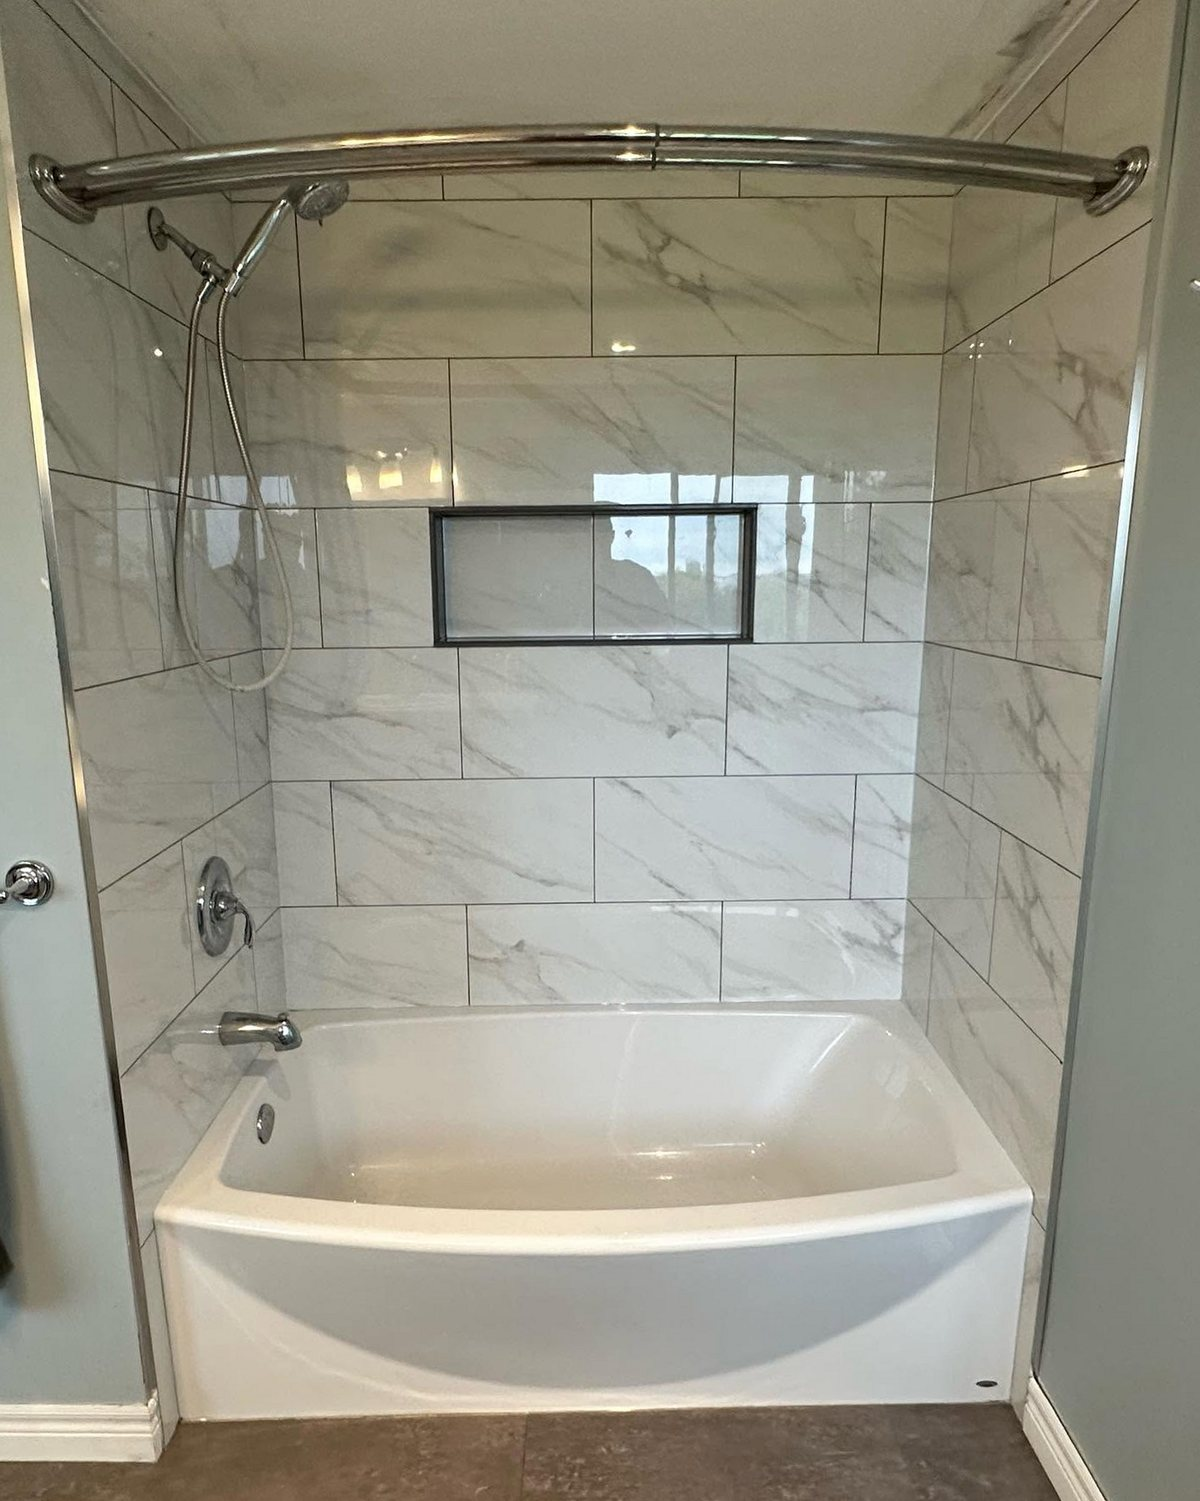
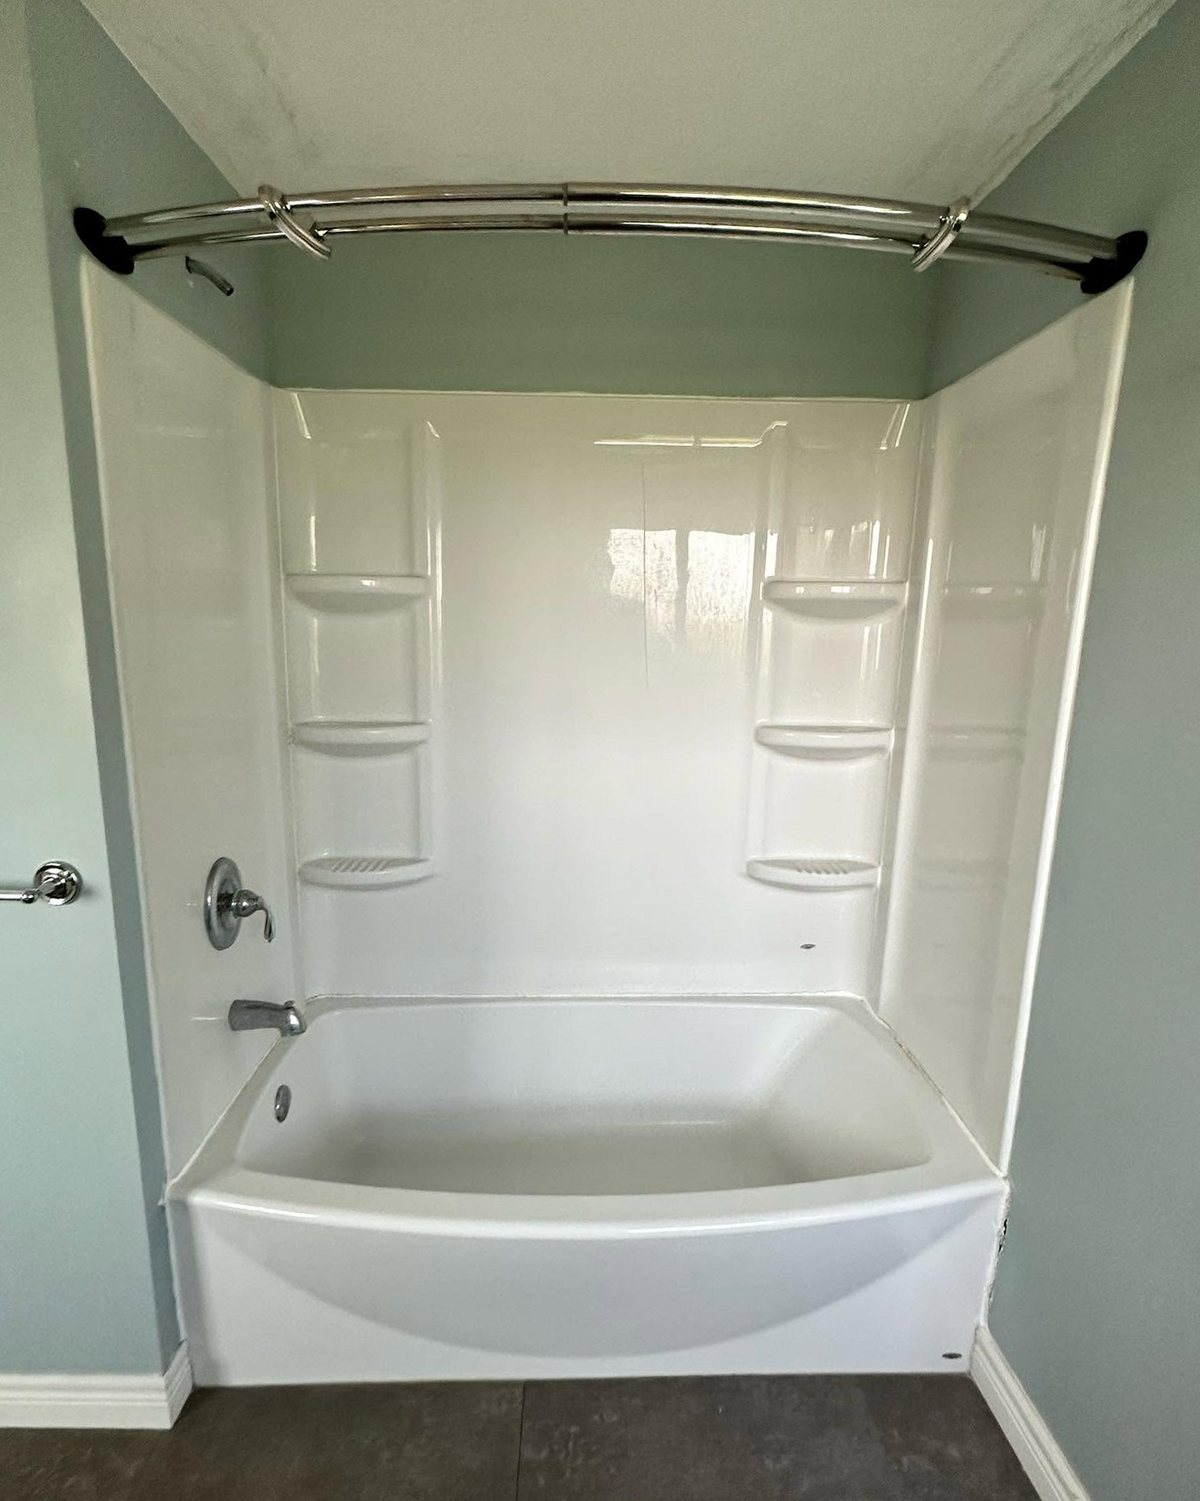
Fix mislabelled before/after photos, and make stages explicit
The tub project had its two photos the wrong way round. The grid tile was
showing the old plastic surround as Joel's finished work, which is
exactly the wrong impression to give. Verified visually and swapped.

Auditing that turned up two more from the same cause: the laundry batch
was scrambled, so the photo captioned as Joel tiling was actually the
finished room, and the patterned-bathroom set had picked up the two tub
photos instead of its own. All corrected against the actual images
rather than filenames.

Root cause was assigning names by file modification time, which does not
match the order photos arrive in. Every project photo has now been
checked by eye against its label.

Each photo can now carry its own stage badge, shown over the image:
"Before", "During - framing", "After - tiled". Without it a before shot
sitting in a project reads as finished work, since the shadowbox
otherwise only shows the project title.

Also: clicking the left half of a photo goes back and the right half
forward, arrows are larger and solid with the hovered half highlighting
its arrow, and dots show position in the set.

diff --git a/gallery.html b/gallery.html
@@ -127,7 +127,7 @@
         </li>
       </ul>
 
-      <script type="application/json" id="project-data">{"p0": {"title": "Fireplace surround", "note": "Full-height porcelain in a marble look, run floor to ceiling and returned around the corner so no cut edge is ever on show. The mantel is solid timber on concealed blocks, set above a see-through firebox.", "photos": [{"src": "images/g-fire-room.jpg", "alt": "Black marble-look fireplace surround running full height"}, {"src": "images/g-fire-wide.jpg", "alt": "The surround straight on with television above the mantel"}, {"src": "images/g-fire-mantel.jpg", "alt": "Timber mantel on cantilevered blocks above the firebox"}]}, "p1": {"title": "Charcoal shower", "note": "Large-format walls with a hexagon feature and a quartz bench. Behind all of it is a bonded waterproofing membrane taken up the walls and over the bench before a single tile went on. Levelling clips hold every tile flush while the mortar cures.", "photos": [{"src": "images/g-shower-done.jpg", "alt": "Charcoal shower with hexagon feature wall and quartz bench"}, {"src": "images/g-shower-progress.jpg", "alt": "The same shower mid-build, waterproofing membrane and levelling clips visible"}]}, "p2": {"title": "Fireplace and floating shelves", "note": "Concrete-look porcelain laid in herringbone, which means every tile is a cut and the pattern has to stay true right across the wall. Solid oak mantel and floating shelves, mitred where they return into the corner.", "photos": [{"src": "images/g-fire2-room.jpg", "alt": "Living room with herringbone tiled fireplace wall and oak shelves"}, {"src": "images/g-fire2-wall.jpg", "alt": "The fireplace wall straight on showing the herringbone pattern"}, {"src": "images/g-fire2-shelves.jpg", "alt": "Solid oak floating shelves mitred into the corner"}]}, "p3": {"title": "Marble-look bathroom", "note": "Large-format porcelain with a pebble mosaic strip run floor to ceiling as a feature. The niche is framed in quartz so there is no exposed tile edge anywhere you would put your hand.", "photos": [{"src": "images/g-mbath-shower.jpg", "alt": "Shower in marble-look large-format tile"}, {"src": "images/g-mbath-niche.jpg", "alt": "Pebble mosaic feature strip beside a quartz-framed niche"}, {"src": "images/g-mbath-vanity.jpg", "alt": "Vessel sink on a shaped quartz counter"}, {"src": "images/g-mbath-wide.jpg", "alt": "The finished room with round mirror and sconces"}]}, "p4": {"title": "Navy kitchen", "note": "Shaker cabinetry with a quartz island, glazed subway backsplash and brass pendants. The island end is panelled with a cross detail rather than left flat.", "photos": [{"src": "images/g-kitchen-wide.jpg", "alt": "Finished navy kitchen seen from the dining area"}, {"src": "images/g-kitchen-island.jpg", "alt": "The island from the side showing the cross-panel end"}, {"src": "images/g-kitchen-range.jpg", "alt": "Range wall with stainless hood and tiled backsplash"}, {"src": "images/g-kitchen-galley.jpg", "alt": "View along the cabinetry to the farmhouse sink"}]}, "p5": {"title": "Basement, start to finish", "note": "Exposed joists and a concrete floor turned into a laundry and hallway. Framing, insulation and drywall through to herringbone tile, oak cabinetry and a quartz top.", "photos": [{"src": "images/g-base-laundry.jpg", "alt": "Finished basement laundry with oak cabinetry and herringbone tile"}, {"src": "images/g-floor-hall.jpg", "alt": "Finished hallway with herringbone tile running through"}, {"src": "images/g-base-before.jpg", "alt": "The same basement before, exposed joists and concrete floor"}, {"src": "images/g-base-during.jpg", "alt": "Framed up mid-build"}]}, "p6": {"title": "White shaker kitchen", "note": "Quartz peninsula, picket tile backsplash and a full run of shaker cabinetry opened to the living room. The floor was out of level, so the boxes were cut and scribed to sit true rather than shimmed.", "photos": [{"src": "images/g-wkit-open.jpg", "alt": "White shaker kitchen open to the living room"}, {"src": "images/g-wkit-peninsula.jpg", "alt": "Quartz peninsula with undermount sink and pendants"}, {"src": "images/g-wkit-range.jpg", "alt": "Range wall with picket tile backsplash"}, {"src": "images/g-wkit-run.jpg", "alt": "Full cabinetry run with tall pantry"}]}, "p7": {"title": "Tub surround", "note": "A moulded plastic surround taken out and replaced with large-format porcelain, including a recessed niche trimmed in the same tile so the edges are mitred rather than capped.", "photos": [{"src": "images/g-tub-after.jpg", "alt": "Tiled tub surround in marble-look large format with a recessed niche"}, {"src": "images/g-tub-before.jpg", "alt": "The same tub before, with a moulded plastic surround"}]}, "p8": {"title": "Built-ins", "note": "Cabinetry built for the room it sits in rather than bought to fit it. Media wall with drawer banks and upper cabinets, and a fitted closet with shelving and rails set out to the owner's things.", "photos": [{"src": "images/g-builtin-media.jpg", "alt": "Built-in media wall in sage green"}, {"src": "images/g-closet.jpg", "alt": "Fitted closet with built-in shelving and rails"}]}, "p9": {"title": "Bathroom with patterned floor", "note": "Patterned floor tile laid so the repeat stays centred in the room, with a marble-look shower and a double vanity in quartz.", "photos": [{"src": "images/g-pbath-room.jpg", "alt": "The finished bathroom looking through to the shower"}, {"src": "images/g-pbath-shower.jpg", "alt": "Marble-look shower with glass surround"}, {"src": "images/g-pbath-vanity.jpg", "alt": "Double vanity with twin oval mirrors and quartz top"}]}, "p10": {"title": "White and black bathroom", "note": "Handmade-look subway run as a wainscot with a capped edge, black fittings throughout, and slate-look floor tile.", "photos": [{"src": "images/g-bath2-shower.jpg", "alt": "Tub and shower with black framed sliding glass"}, {"src": "images/g-bath2-vanity.jpg", "alt": "Vanity with arched black-framed mirror"}, {"src": "images/g-bath2-wide.jpg", "alt": "The finished room showing the tiled wainscot"}]}, "p11": {"title": "Basement laundry", "note": "Backsplash tile set off a laser line with levelling clips, a coffered ceiling, plank flooring and fitted panelled doors.", "photos": [{"src": "images/g-laundry-wide.jpg", "alt": "Finished basement laundry with tiled backsplash and coffered ceiling"}, {"src": "images/g-laundry-tiling.jpg", "alt": "Joel setting the backsplash off a laser line"}, {"src": "images/g-laundry-sink.jpg", "alt": "Laundry sink and taps against the tiled wall"}]}, "p12": {"title": "Backsplashes", "note": "Arabesque glass and chevron mosaic. Both are laid out dry first so the cuts land where they are least seen, at the edges rather than through the middle of the wall.", "photos": [{"src": "images/g-tile-arabesque.jpg", "alt": "Blue and grey arabesque glass tile backsplash"}, {"src": "images/g-tile-chevron.jpg", "alt": "White chevron mosaic tile backsplash"}]}}</script>
+      <script type="application/json" id="project-data">{"p0": {"title": "Fireplace surround", "note": "Full-height porcelain in a marble look, run floor to ceiling and returned around the corner so no cut edge is ever on show. The mantel is solid timber on concealed blocks, set above a see-through firebox.", "photos": [{"src": "images/g-fire-room.jpg", "alt": "Black marble-look fireplace surround running full height"}, {"src": "images/g-fire-wide.jpg", "alt": "The surround straight on with television above the mantel"}, {"src": "images/g-fire-mantel.jpg", "alt": "Timber mantel on cantilevered blocks above the firebox"}]}, "p1": {"title": "Charcoal shower", "note": "Large-format walls with a hexagon feature and a quartz bench. Behind all of it is a bonded waterproofing membrane taken up the walls and over the bench before a single tile went on. Levelling clips hold every tile flush while the mortar cures.", "photos": [{"src": "images/g-shower-done.jpg", "alt": "Charcoal shower with hexagon feature wall and quartz bench", "stage": "Finished"}, {"src": "images/g-shower-progress.jpg", "alt": "The same shower mid-build, waterproofing membrane and levelling clips visible", "stage": "During &mdash; waterproofing and levelling clips"}]}, "p2": {"title": "Fireplace and floating shelves", "note": "Concrete-look porcelain laid in herringbone, which means every tile is a cut and the pattern has to stay true right across the wall. Solid oak mantel and floating shelves, mitred where they return into the corner.", "photos": [{"src": "images/g-fire2-room.jpg", "alt": "Living room with herringbone tiled fireplace wall and oak shelves"}, {"src": "images/g-fire2-wall.jpg", "alt": "The fireplace wall straight on showing the herringbone pattern"}, {"src": "images/g-fire2-shelves.jpg", "alt": "Solid oak floating shelves mitred into the corner"}]}, "p3": {"title": "Marble-look bathroom", "note": "Large-format porcelain with a pebble mosaic strip run floor to ceiling as a feature. The niche is framed in quartz so there is no exposed tile edge anywhere you would put your hand.", "photos": [{"src": "images/g-mbath-shower.jpg", "alt": "Shower in marble-look large-format tile"}, {"src": "images/g-mbath-niche.jpg", "alt": "Pebble mosaic feature strip beside a quartz-framed niche"}, {"src": "images/g-mbath-vanity.jpg", "alt": "Vessel sink on a shaped quartz counter"}, {"src": "images/g-mbath-wide.jpg", "alt": "The finished room with round mirror and sconces"}]}, "p4": {"title": "Navy kitchen", "note": "Shaker cabinetry with a quartz island, glazed subway backsplash and brass pendants. The island end is panelled with a cross detail rather than left flat.", "photos": [{"src": "images/g-kitchen-wide.jpg", "alt": "Finished navy kitchen seen from the dining area"}, {"src": "images/g-kitchen-island.jpg", "alt": "The island from the side showing the cross-panel end"}, {"src": "images/g-kitchen-range.jpg", "alt": "Range wall with stainless hood and tiled backsplash"}, {"src": "images/g-kitchen-galley.jpg", "alt": "View along the cabinetry to the farmhouse sink"}]}, "p5": {"title": "Basement, start to finish", "note": "Exposed joists and a concrete floor turned into a laundry and hallway. Framing, insulation and drywall through to herringbone tile, oak cabinetry and a quartz top.", "photos": [{"src": "images/g-base-laundry.jpg", "alt": "Finished basement laundry with oak cabinetry and herringbone tile", "stage": "After"}, {"src": "images/g-floor-hall.jpg", "alt": "Finished hallway with herringbone tile running through", "stage": "After"}, {"src": "images/g-base-before.jpg", "alt": "The same basement before, exposed joists and concrete floor", "stage": "Before"}, {"src": "images/g-base-during.jpg", "alt": "Framed up mid-build", "stage": "During &mdash; framing"}]}, "p6": {"title": "White shaker kitchen", "note": "Quartz peninsula, picket tile backsplash and a full run of shaker cabinetry opened to the living room. The floor was out of level, so the boxes were cut and scribed to sit true rather than shimmed.", "photos": [{"src": "images/g-wkit-open.jpg", "alt": "White shaker kitchen open to the living room"}, {"src": "images/g-wkit-peninsula.jpg", "alt": "Quartz peninsula with undermount sink and pendants"}, {"src": "images/g-wkit-range.jpg", "alt": "Range wall with picket tile backsplash"}, {"src": "images/g-wkit-run.jpg", "alt": "Full cabinetry run with tall pantry"}]}, "p7": {"title": "Tiled tub surround", "note": "The plastic surround that came with the bathroom was torn out and replaced with large-format porcelain, including a recessed niche trimmed in the same tile so the edges are mitred rather than capped. The before photograph is the old surround, not our work.", "photos": [{"src": "images/g-tub-after.jpg", "alt": "Tiled tub surround in marble-look large format with a recessed niche", "stage": "After &mdash; tiled"}, {"src": "images/g-tub-before.jpg", "alt": "The same tub before, with a moulded plastic surround", "stage": "Before &mdash; existing plastic surround"}]}, "p8": {"title": "Built-ins", "note": "Cabinetry built for the room it sits in rather than bought to fit it. Media wall with drawer banks and upper cabinets, and a fitted closet with shelving and rails set out to the owner's things.", "photos": [{"src": "images/g-builtin-media.jpg", "alt": "Built-in media wall in sage green"}, {"src": "images/g-closet.jpg", "alt": "Fitted closet with built-in shelving and rails"}]}, "p9": {"title": "Bathroom with patterned floor", "note": "Patterned floor tile laid so the repeat stays centred in the room, with a marble-look shower behind frameless glass.", "photos": [{"src": "images/g-pbath-room.jpg", "alt": "The finished bathroom with patterned floor tile, looking through to the shower"}, {"src": "images/g-pbath-shower.jpg", "alt": "Marble-look shower with glass surround"}]}, "p10": {"title": "White and black bathroom", "note": "Handmade-look subway run as a wainscot with a capped edge, black fittings throughout, and slate-look floor tile.", "photos": [{"src": "images/g-bath2-shower.jpg", "alt": "Tub and shower with black framed sliding glass"}, {"src": "images/g-bath2-vanity.jpg", "alt": "Vanity with arched black-framed mirror"}, {"src": "images/g-bath2-wide.jpg", "alt": "The finished room showing the tiled wainscot"}]}, "p11": {"title": "Basement laundry", "note": "Backsplash tile set off a laser line with levelling clips, a coffered ceiling, plank flooring and fitted panelled doors.", "photos": [{"src": "images/g-laundry-wide.jpg", "alt": "Finished basement laundry with tiled backsplash and coffered ceiling"}, {"src": "images/g-laundry-tiling.jpg", "alt": "Joel setting the backsplash off a laser line", "stage": "During &mdash; setting the backsplash"}, {"src": "images/g-laundry-sink.jpg", "alt": "Laundry sink and taps against the tiled wall"}]}, "p12": {"title": "Backsplashes", "note": "Arabesque glass and chevron mosaic. Both are laid out dry first so the cuts land where they are least seen, at the edges rather than through the middle of the wall.", "photos": [{"src": "images/g-tile-arabesque.jpg", "alt": "Blue and grey arabesque glass tile backsplash"}, {"src": "images/g-tile-chevron.jpg", "alt": "White chevron mosaic tile backsplash"}]}}</script>
     </div>
   </section>
 
@@ -135,10 +135,17 @@
     <button type="button" class="lightbox__close" data-lb="close" aria-label="Close">&times;</button>
     <button type="button" class="lightbox__nav lightbox__nav--prev" data-lb="prev" aria-label="Previous photo">&#8249;</button>
     <figure class="lightbox__figure">
-      <img class="lightbox__img" alt="">
+      <div class="lightbox__stage">
+        <img class="lightbox__img" alt="">
+        <!-- the whole photo is clickable: left half back, right half forward -->
+        <button type="button" class="lightbox__zone lightbox__zone--prev" data-lb="prev" aria-label="Previous photo"></button>
+        <button type="button" class="lightbox__zone lightbox__zone--next" data-lb="next" aria-label="Next photo"></button>
+        <p class="lightbox__stagelabel" hidden></p>
+      </div>
       <figcaption class="lightbox__meta">
         <h2 class="lightbox__title"></h2>
         <p class="lightbox__note"></p>
+        <div class="lightbox__dots" aria-hidden="true"></div>
         <p class="lightbox__count"></p>
       </figcaption>
     </figure>
@@ -228,6 +235,9 @@
     var ttl = dlg.querySelector('.lightbox__title');
     var note = dlg.querySelector('.lightbox__note');
     var count = dlg.querySelector('.lightbox__count');
+    var stage = dlg.querySelector('.lightbox__stagelabel');
+    var dots = dlg.querySelector('.lightbox__dots');
+    var zones = dlg.querySelectorAll('.lightbox__zone');
     var prev = dlg.querySelector('[data-lb="prev"]');
     var next = dlg.querySelector('[data-lb="next"]');
     var proj = null, i = 0;
@@ -239,9 +249,21 @@
       ttl.textContent = proj.title;
       note.textContent = proj.note;
       count.textContent = (i + 1) + ' of ' + proj.photos.length;
+      if (p.stage) { stage.innerHTML = p.stage; stage.hidden = false; }
+      else { stage.hidden = true; }
       var one = proj.photos.length < 2;
       prev.hidden = one;
       next.hidden = one;
+      zones.forEach(function (z) { z.hidden = one; });
+
+      dots.innerHTML = '';
+      if (!one) {
+        proj.photos.forEach(function (_, n) {
+          var d = document.createElement('span');
+          d.className = 'lightbox__dot' + (n === i ? ' is-on' : '');
+          dots.appendChild(d);
+        });
+      }
     }
 
     function step(n) {

diff --git a/css/style.css b/css/style.css
@@ -784,7 +784,68 @@ p { margin: 0 0 1em; }
   border-radius: 3px;
 }
 
+.lightbox__stage { position: relative; }
+
 .lightbox__img { max-height: 72vh; }
+
+/* the photo itself is the control: left half back, right half forward */
+.lightbox__zone {
+  position: absolute;
+  top: 0;
+  bottom: 0;
+  width: 50%;
+  border: 0;
+  background: transparent;
+  padding: 0;
+}
+
+.lightbox__zone--prev { left: 0; cursor: w-resize; }
+.lightbox__zone--next { right: 0; cursor: e-resize; }
+
+/* hovering a half lights up the arrow it belongs to */
+.lightbox:has(.lightbox__zone--prev:hover) .lightbox__nav--prev,
+.lightbox:has(.lightbox__zone--next:hover) .lightbox__nav--next {
+  background: var(--accent);
+  transform: translateY(-50%) scale(1.08);
+}
+
+/* sits on the photo so a "before" can never be read as finished work */
+.lightbox__stagelabel {
+  position: absolute;
+  top: 12px;
+  left: 12px;
+  margin: 0;
+  padding: 7px 13px;
+  border-radius: 999px;
+  background: rgba(20, 26, 34, .85);
+  border: 1px solid rgba(255, 255, 255, .22);
+  color: #fff;
+  font-size: .66rem;
+  font-weight: 700;
+  letter-spacing: .13em;
+  text-transform: uppercase;
+  pointer-events: none;
+}
+
+.lightbox__dots {
+  display: flex;
+  justify-content: center;
+  gap: 7px;
+  margin: 0 0 10px;
+}
+
+.lightbox__dot {
+  width: 7px;
+  height: 7px;
+  border-radius: 50%;
+  background: rgba(255, 255, 255, .3);
+  transition: background .25s ease, transform .25s ease;
+}
+
+.lightbox__dot.is-on {
+  background: #fff;
+  transform: scale(1.25);
+}
 
 .lightbox__meta {
   margin-top: 14px;
@@ -819,18 +880,22 @@ p { margin: 0 0 1em; }
 .lightbox__close,
 .lightbox__nav {
   position: fixed;
-  border: 0;
-  background: rgba(255, 255, 255, .1);
+  z-index: 2;
+  border: 1px solid rgba(255, 255, 255, .28);
+  background: rgba(20, 26, 34, .82);
   color: #fff;
   cursor: pointer;
   border-radius: 50%;
   display: grid;
   place-items: center;
-  transition: background .2s ease;
+  transition: background .2s ease, transform .2s ease, border-color .2s ease;
 }
 
 .lightbox__close:hover,
-.lightbox__nav:hover { background: rgba(255, 255, 255, .24); }
+.lightbox__nav:hover {
+  background: var(--accent);
+  border-color: var(--accent);
+}
 
 .lightbox__close {
   top: 16px;
@@ -844,17 +909,18 @@ p { margin: 0 0 1em; }
 .lightbox__nav {
   top: 50%;
   transform: translateY(-50%);
-  width: 52px;
-  height: 52px;
-  font-size: 2rem;
+  width: 62px;
+  height: 62px;
+  font-size: 2.3rem;
   line-height: 1;
+  padding-bottom: 4px;
 }
 
 .lightbox__nav--prev { left: 14px; }
 .lightbox__nav--next { right: 14px; }
 
 @media (max-width: 620px) {
-  .lightbox__nav { width: 44px; height: 44px; font-size: 1.6rem; }
+  .lightbox__nav { width: 50px; height: 50px; font-size: 1.9rem; }
   .lightbox__nav--prev { left: 6px; }
   .lightbox__nav--next { right: 6px; }
 }
